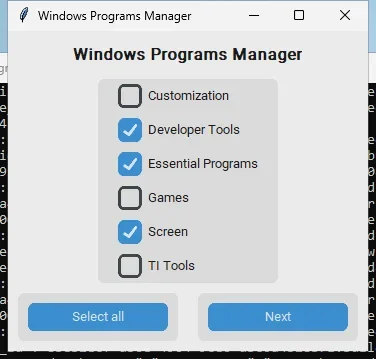
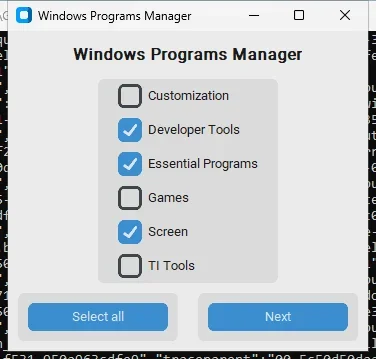
Update run system

diff --git a/scripts/validate_shortcuts.py b/scripts/validate_shortcuts.py
@@ -15,6 +15,7 @@ if str(PROJECT_ROOT) not in sys.path:
 
 def validate_windows_shortcuts():
     """Validate Windows Start Menu and Desktop shortcuts."""
+    from src.lib.shortcuts import APP_NAME
     from src.lib.windows_shortcuts import (
         windows_start_menu_directories,
         windows_desktop_directories,
@@ -30,14 +31,14 @@ def validate_windows_shortcuts():
         return found_shortcuts, errors
 
     for start_menu_dir in start_menu_dirs:
-        start_menu_shortcut = start_menu_dir / "Passwords Manager.lnk"
+        start_menu_shortcut = start_menu_dir / f"{APP_NAME}.lnk"
         if start_menu_shortcut.exists():
             found_shortcuts.append(str(start_menu_shortcut))
         else:
             errors.append(f"Start Menu shortcut not found: {start_menu_shortcut}")
 
     for desktop_dir in windows_desktop_directories():
-        desktop_shortcut = desktop_dir / "Passwords Manager.lnk"
+        desktop_shortcut = desktop_dir / f"{APP_NAME}.lnk"
         if desktop_shortcut.exists():
             found_shortcuts.append(str(desktop_shortcut))
         else:
@@ -48,8 +49,10 @@ def validate_windows_shortcuts():
 
 def validate_linux_shortcuts():
     """Validate Linux .desktop files."""
+    from src.lib.shortcuts import APP_SLUG
+
     app_dir = Path.home() / ".local" / "share" / "applications"
-    app_entry = app_dir / "passwords-manager.desktop"
+    app_entry = app_dir / f"{APP_SLUG}.desktop"
 
     errors = []
     found_shortcuts = []
@@ -63,7 +66,7 @@ def validate_linux_shortcuts():
 
         try:
             content = app_entry.read_text(encoding="utf-8")
-            if "passwords-manager" in content:
+            if APP_SLUG in content:
                 found_shortcuts.append(f"{app_entry} (verified: contains executable reference)")
             else:
                 errors.append(f"Desktop entry missing executable reference: {app_entry}")
@@ -77,8 +80,10 @@ def validate_linux_shortcuts():
 
 def validate_macos_shortcuts():
     """Validate macOS .command launcher files."""
+    from src.lib.shortcuts import APP_NAME, APP_SLUG
+
     app_dir = Path.home() / "Applications"
-    app_launcher = app_dir / "Passwords Manager.command"
+    app_launcher = app_dir / f"{APP_NAME}.command"
 
     errors = []
     found_shortcuts = []
@@ -92,7 +97,7 @@ def validate_macos_shortcuts():
 
         try:
             content = app_launcher.read_text(encoding="utf-8")
-            if "passwords-manager" in content:
+            if APP_SLUG in content:
                 found_shortcuts.append(f"{app_launcher} (verified: contains executable reference)")
             else:
                 errors.append(f"Launcher missing executable reference: {app_launcher}")
@@ -112,7 +117,7 @@ def validate_macos_shortcuts():
 def main():
     """Main validation routine."""
     print("=" * 70)
-    print("Passwords Manager - Shortcut Validation")
+    print("Programs Manager - Shortcut Validation")
     print("=" * 70)
     print()
 

diff --git a/src/lib/shortcuts/__init__.py b/src/lib/shortcuts/__init__.py
@@ -13,8 +13,8 @@ from src.lib.windows_shortcuts import (
 )
 
 
-APP_NAME = "Passwords Manager"
-APP_SLUG = "passwords-manager"
+APP_NAME = "Programs Manager"
+APP_SLUG = "programs-manager"
 
 
 def _project_root() -> Path: